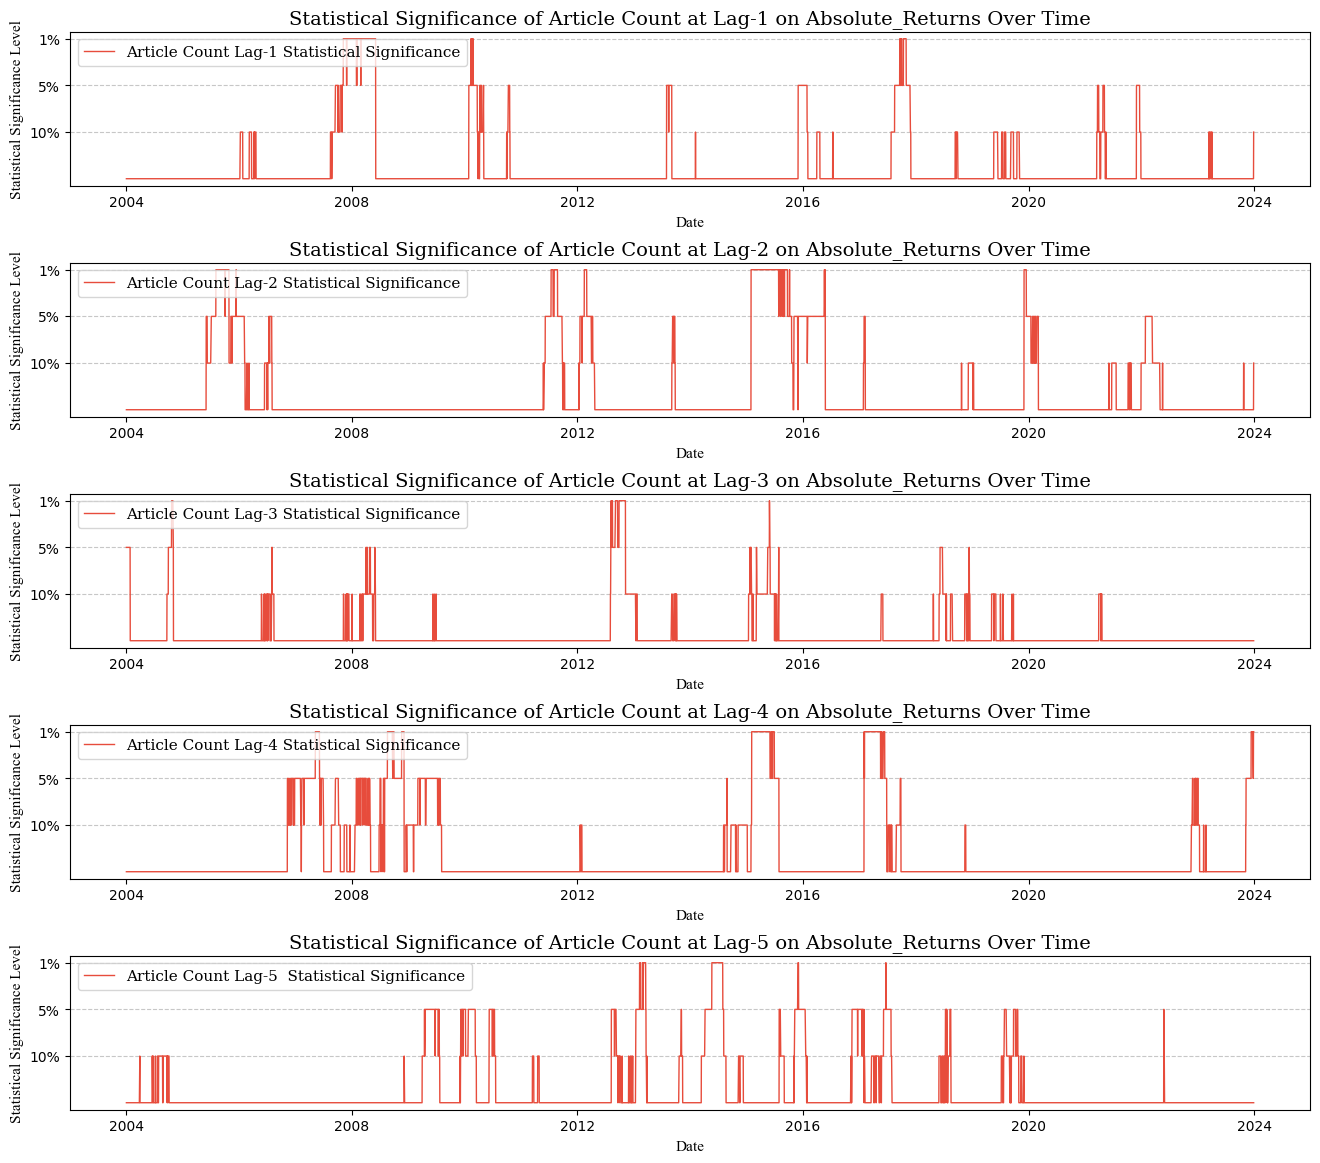
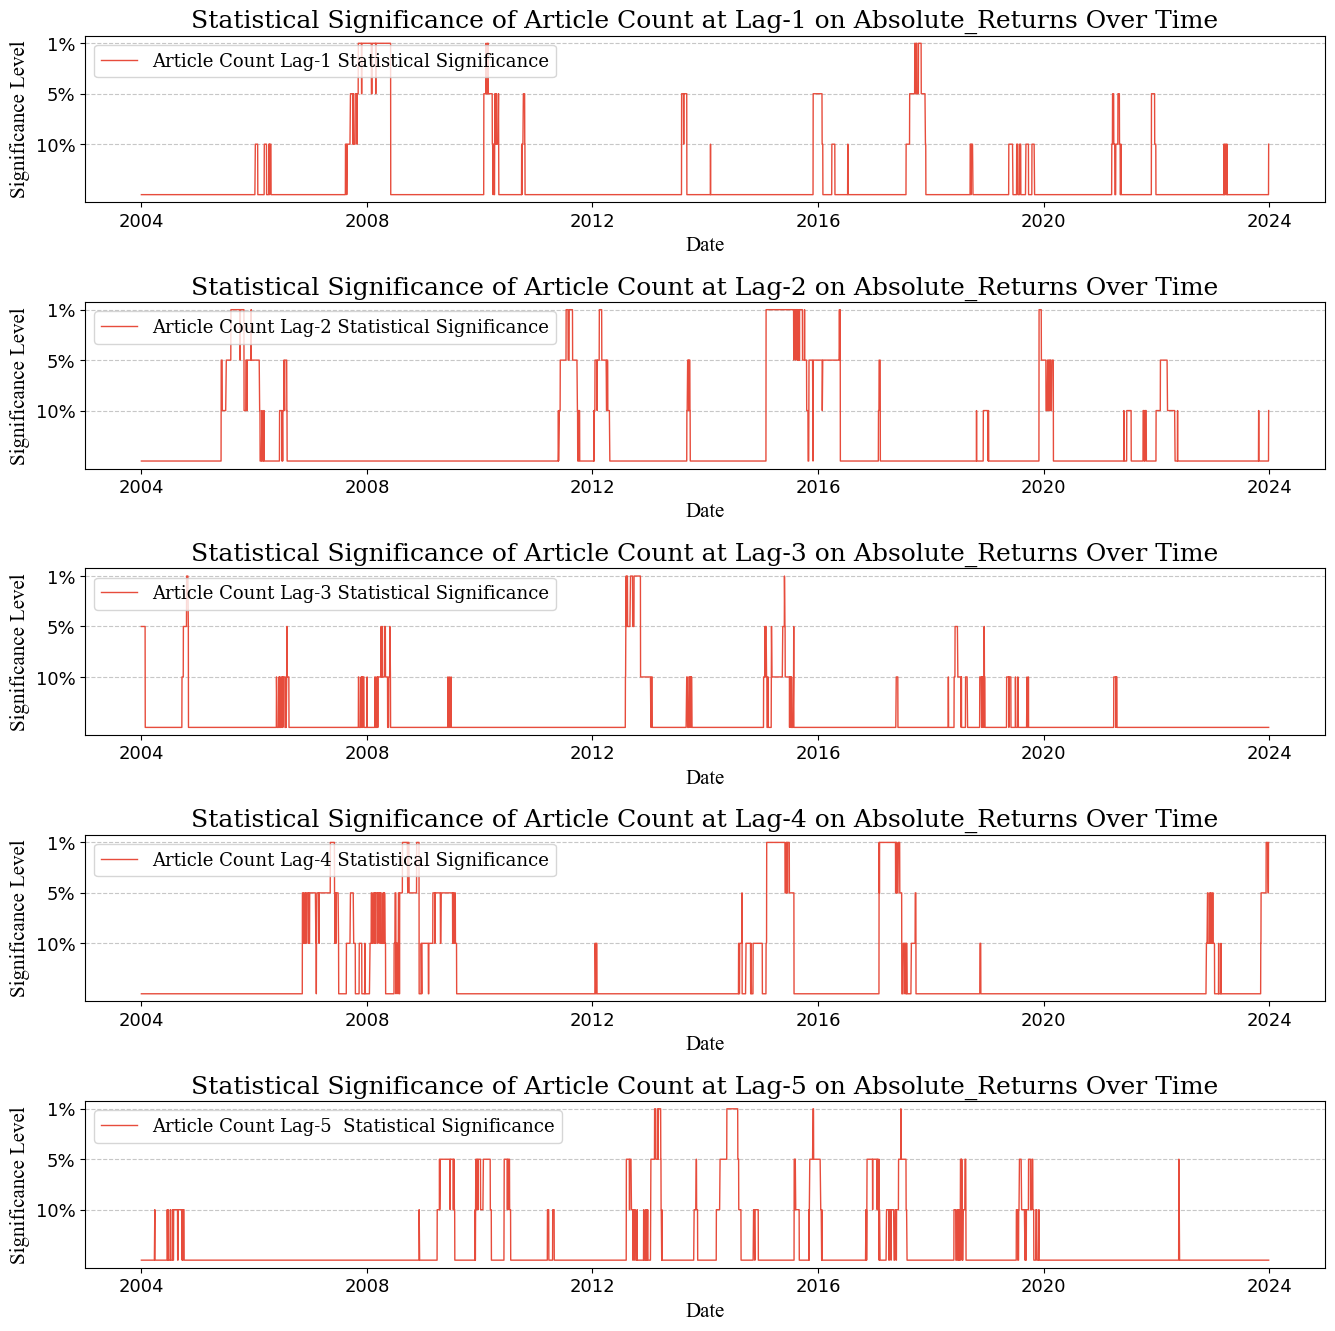
change gis plots

diff --git a/Plot_Rolling_VAR_Results.py b/Plot_Rolling_VAR_Results.py
@@ -31,7 +31,7 @@ for i, p_value_series in enumerate((df['neg_p_values_lag_one'], df['neg_p_values
             neg_significance_levels[i].append(0)
 
 # Plot negative sentiment significance
-fig, (ax1, ax2, ax3, ax4, ax5) = plt.subplots(5, 1, figsize=(16, 14), sharex=False, sharey=True)
+fig, (ax1, ax2, ax3, ax4, ax5) = plt.subplots(5, 1, figsize=(16, 16), sharex=False, sharey=True)
 
 # Plot each line plot on the same axis
 ax1.plot(datetime_objs, neg_significance_levels[0], label='Negative Sentiment Lag-1 Statistical Significance', color='#2980b9', linewidth=1)
@@ -51,7 +51,7 @@ for i, ax in enumerate([ax1, ax2, ax3, ax4, ax5]):
     ax.grid(axis='y', linestyle='--', alpha=0.7)
     ax.tick_params(axis='both', which='major', labelsize=13)
 
-plt.subplots_adjust(hspace=.5)
+plt.subplots_adjust(hspace=.6)
 plt.savefig('Plots/Returns_Negative_Sentiment_Significance.png', bbox_inches='tight')
 #plt.show()
 
@@ -70,7 +70,7 @@ for i, p_value_series in enumerate((df['count_p_values_lag_one'], df['count_p_va
             count_significance_levels[i].append(0)
 
 # Plot article count significance
-fig, (ax1, ax2, ax3, ax4, ax5) = plt.subplots(5, 1, figsize=(16, 14), sharex=False, sharey=True)
+fig, (ax1, ax2, ax3, ax4, ax5) = plt.subplots(5, 1, figsize=(16, 16), sharex=False, sharey=True)
 
 # Plot each line plot on the same axis
 ax1.plot(datetime_objs, count_significance_levels[0], label='Article Count Lag-1 Statistical Significance', color='#e74c3c', linewidth=1)
@@ -90,7 +90,7 @@ for i, ax in enumerate([ax1, ax2, ax3, ax4, ax5]):
     ax.grid(axis='y', linestyle='--', alpha=0.7)
     ax.tick_params(axis='both', which='major', labelsize=13)
 
-plt.subplots_adjust(hspace=.5)
+plt.subplots_adjust(hspace=.6)
 plt.savefig('Plots/Returns_Article_Count_Significance.png', bbox_inches='tight')
 #plt.show()
 
@@ -121,7 +121,7 @@ for i, p_value_series in enumerate((df['neg_p_values_lag_one'], df['neg_p_values
             neg_significance_levels[i].append(0)
 
 # Plot negative sentiment significance
-fig, (ax1, ax2, ax3, ax4, ax5) = plt.subplots(5, 1, figsize=(16, 14), sharex=False, sharey=True)
+fig, (ax1, ax2, ax3, ax4, ax5) = plt.subplots(5, 1, figsize=(16, 16), sharex=False, sharey=True)
 
 # Plot each line plot on the same axis
 ax1.plot(datetime_objs, neg_significance_levels[0], label='Negative Sentiment Lag-1 Statistical Significance', color='#2980b9', linewidth=1)
@@ -141,7 +141,7 @@ for i, ax in enumerate([ax1, ax2, ax3, ax4, ax5]):
     ax.grid(axis='y', linestyle='--', alpha=0.7)
     ax.tick_params(axis='both', which='major', labelsize=13)
 
-plt.subplots_adjust(hspace=.5)
+plt.subplots_adjust(hspace=.6)
 plt.savefig('Plots/Absolute_Returns_Negative_Sentiment_Significance.png', bbox_inches='tight')
 #plt.show()
 
@@ -160,7 +160,7 @@ for i, p_value_series in enumerate((df['count_p_values_lag_one'], df['count_p_va
             count_significance_levels[i].append(0)
 
 # Plot article count significance
-fig, (ax1, ax2, ax3, ax4, ax5) = plt.subplots(5, 1, figsize=(16, 14), sharex=False, sharey=True)
+fig, (ax1, ax2, ax3, ax4, ax5) = plt.subplots(5, 1, figsize=(16, 16), sharex=False, sharey=True)
 
 # Plot each line plot on the same axis
 ax1.plot(datetime_objs, count_significance_levels[0], label='Article Count Lag-1 Statistical Significance', color='#e74c3c', linewidth=1)
@@ -180,6 +180,6 @@ for i, ax in enumerate([ax1, ax2, ax3, ax4, ax5]):
     ax.grid(axis='y', linestyle='--', alpha=0.7)
     ax.tick_params(axis='both', which='major', labelsize=13)
 
-plt.subplots_adjust(hspace=.5)
+plt.subplots_adjust(hspace=.6)
 plt.savefig('Plots/Absolute_Returns_Article_Count_Significance.png', bbox_inches='tight')
 #plt.show()
